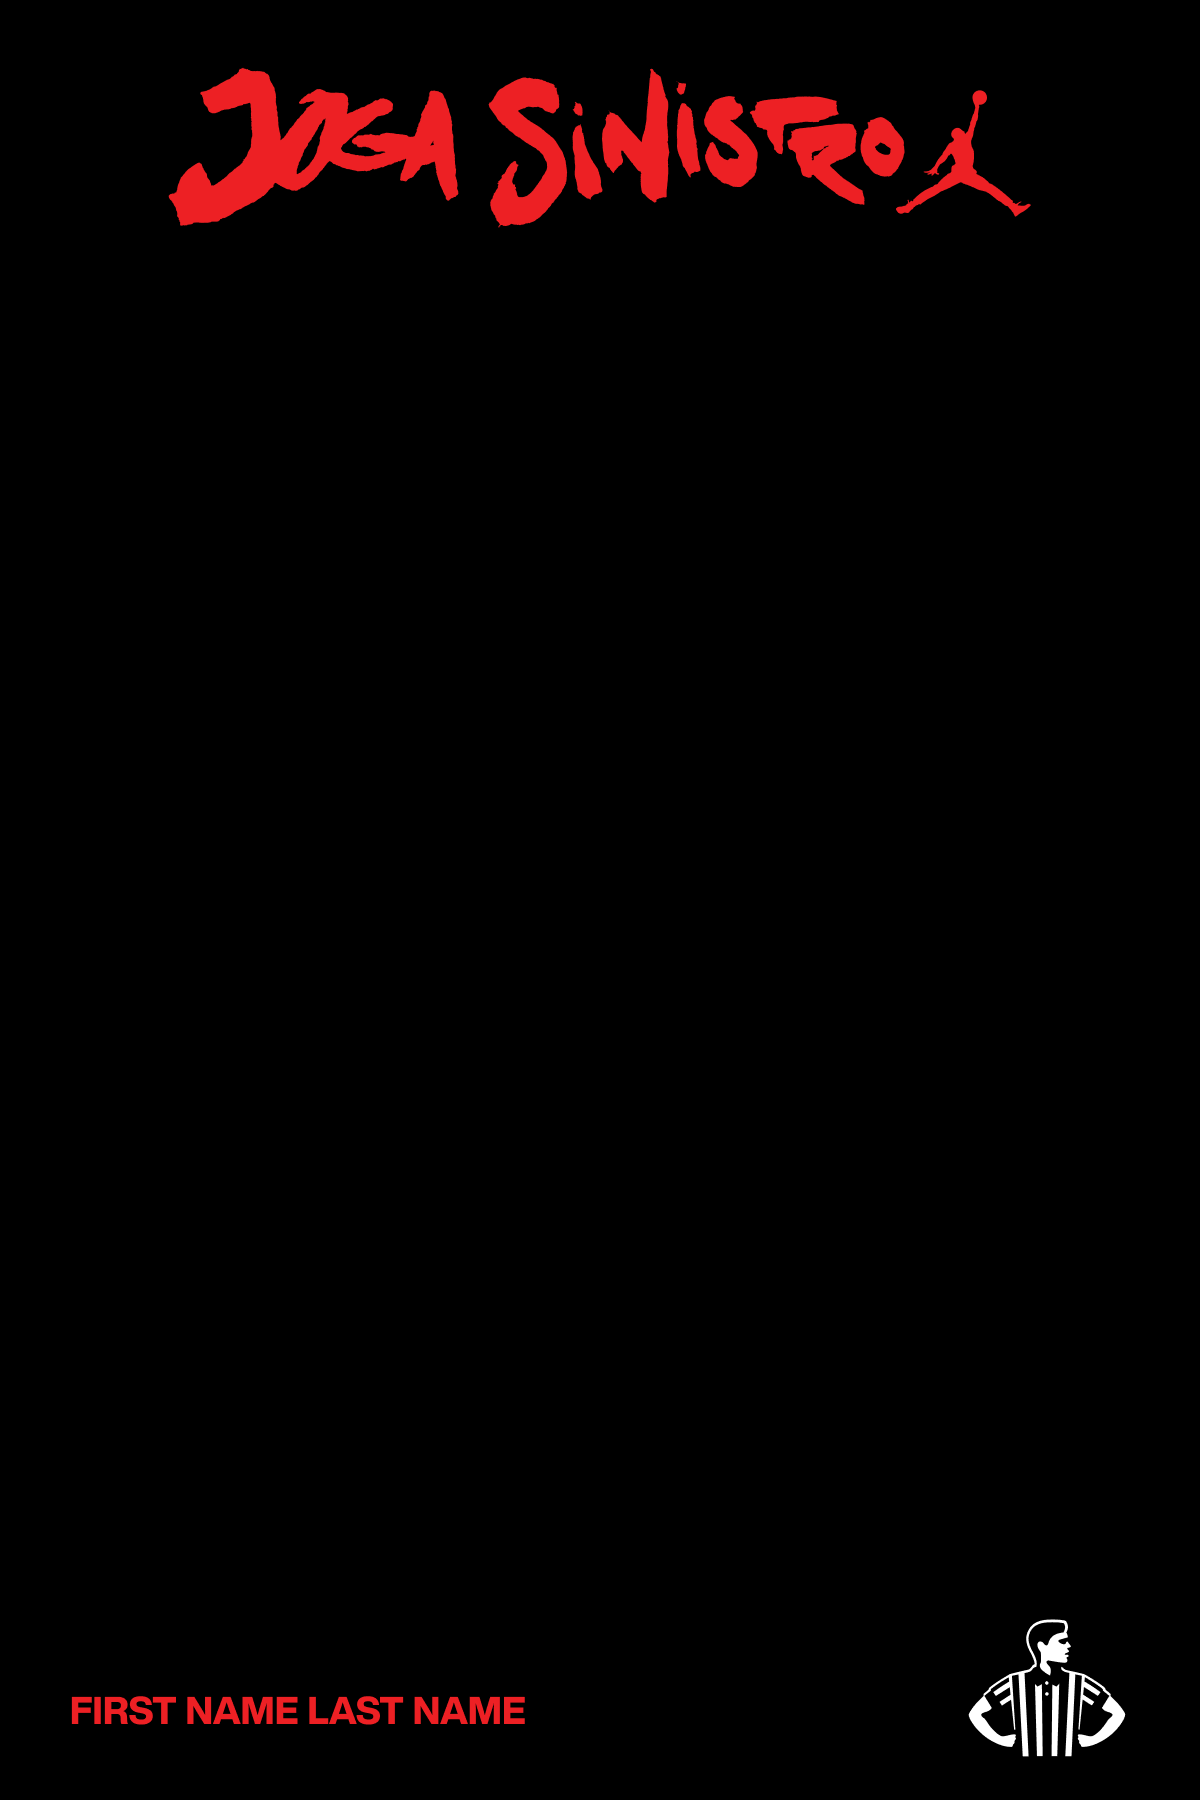
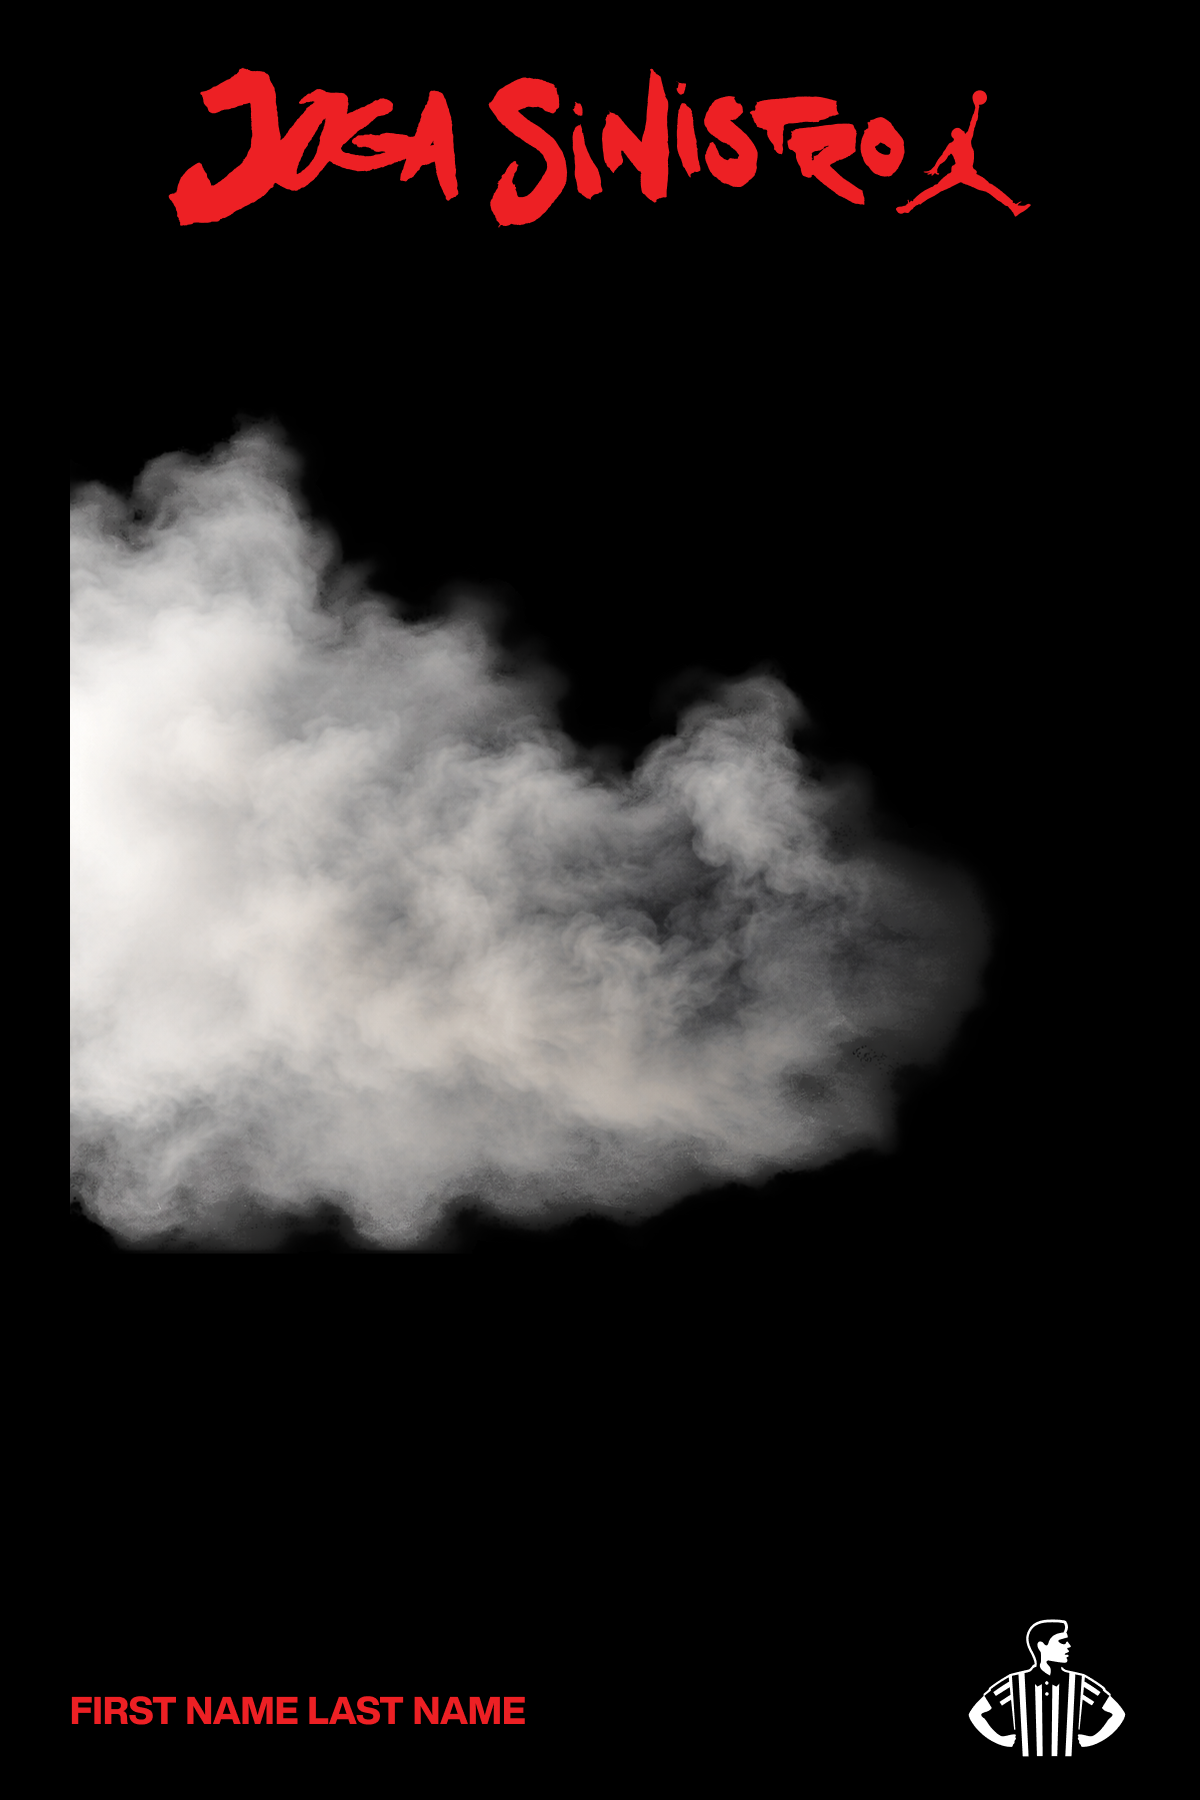
sdfsdfsfsfdf

Changed region(s): [[0.0308, 0.2178, 0.8325, 0.7156]]

diff --git a/src/components/TryOnResult.tsx b/src/components/TryOnResult.tsx
@@ -1,4 +1,5 @@
 import React, { useCallback, useEffect, useState } from 'react';
+import { Settings } from 'lucide-react';
 import { uploadSharedResultImage } from '../services/supabase';
 
 interface TryOnResultProps {
@@ -6,6 +7,7 @@ interface TryOnResultProps {
   selectedClothing: string;
   resultImage: string;
   isLoading: boolean;
+  userName: string;
   onStartOver: () => void;
   onShowQr: (value: string) => void;
 }
@@ -18,6 +20,55 @@ const loadImage = (src: string): Promise<HTMLImageElement> =>
     image.onerror = reject;
     image.src = src;
   });
+
+const waitForNextPaint = () =>
+  new Promise<void>(resolve => {
+    requestAnimationFrame(() => {
+      requestAnimationFrame(() => resolve());
+    });
+  });
+
+const waitForPrintDialog = () =>
+  new Promise<void>(resolve => {
+    let settled = false;
+
+    const finish = () => {
+      if (settled) return;
+      settled = true;
+      window.removeEventListener('afterprint', finish);
+      resolve();
+    };
+
+    window.addEventListener('afterprint', finish);
+    window.print();
+    window.setTimeout(finish, 1000);
+  });
+
+const loadPosterFont = async () => {
+  if (!document.fonts) return;
+
+  await document.fonts.load('800 34px "Helvetica Now Display"');
+};
+
+const drawUserName = (context: CanvasRenderingContext2D, canvasWidth: number, canvasHeight: number, userName: string) => {
+  const displayName = userName.trim();
+  if (!displayName) return;
+
+  const maxWidth = canvasWidth * 0.62;
+  let fontSize = 34;
+
+  context.fillStyle = '#ED2024';
+  context.textAlign = 'left';
+  context.textBaseline = 'alphabetic';
+
+  do {
+    context.font = `800 ${fontSize}px "Helvetica Now Display", Arial, sans-serif`;
+    if (context.measureText(displayName).width <= maxWidth || fontSize <= 20) break;
+    fontSize -= 2;
+  } while (fontSize > 20);
+
+  context.fillText(displayName, canvasWidth * 0.05, canvasHeight * 0.955);
+};
 
 const hasVisiblePixels = (pixels: Uint8ClampedArray) => {
   let visiblePixels = 0;
@@ -240,14 +291,18 @@ export const TryOnResult: React.FC<TryOnResultProps> = ({
   selectedClothing,
   resultImage,
   isLoading,
+  userName,
   onShowQr
 }) => {
   const [processedResultImage, setProcessedResultImage] = useState('');
   const [framedResultImage, setFramedResultImage] = useState('');
   const [isPreparingQr, setIsPreparingQr] = useState(false);
+  const [printMode, setPrintMode] = useState<'front' | 'back'>('front');
 
   const createFramedResultImage = useCallback(async () => {
-    const frame = await loadImage('/frame002.png');
+    await loadPosterFont();
+
+    const frame = await loadImage('/frameog.png');
     const result = await loadImage(processedResultImage || resultImage);
     const canvas = document.createElement('canvas');
     canvas.width = frame.naturalWidth;
@@ -276,7 +331,7 @@ export const TryOnResult: React.FC<TryOnResultProps> = ({
     const targetWidth = Math.min(933, canvas.width);
     const targetHeight = Math.min(1065, canvas.height);
     const targetLeft = (canvas.width - targetWidth) / 2;
-    const targetTop = canvas.height * 0.18 + (canvas.height * 0.7 - targetHeight) / 2 - canvas.height * 0.055;
+    const targetTop = canvas.height * 0.18 + (canvas.height * 0.7 - targetHeight) / 2 - canvas.height * 0.08;
     const imageRatio = sourceWidth / sourceHeight;
     const targetRatio = targetWidth / targetHeight;
 
@@ -293,9 +348,10 @@ export const TryOnResult: React.FC<TryOnResultProps> = ({
       drawLeft = targetLeft + (targetWidth - drawWidth) / 2;
     }
 
-    context.drawImage(frame, 0, 0, canvas.width, canvas.height);
     context.fillStyle = '#020205';
     context.fillRect(0, canvas.height * 0.165, canvas.width, canvas.height * 0.745);
+    context.drawImage(frame, 0, 0, canvas.width, canvas.height);
+
     context.drawImage(
       result,
       sourceX,
@@ -307,23 +363,40 @@ export const TryOnResult: React.FC<TryOnResultProps> = ({
       drawWidth,
       drawHeight
     );
+    drawUserName(context, canvas.width, canvas.height, userName);
 
     return canvas.toDataURL('image/png');
-  }, [processedResultImage, resultImage]);
+  }, [processedResultImage, resultImage, userName]);
+
+  const printSelectedSide = useCallback(async (mode: 'front' | 'back') => {
+    setPrintMode(mode);
+    await waitForNextPaint();
+    await waitForPrintDialog();
+    setPrintMode('front');
+  }, []);
 
   const handlePrint = async () => {
-    if (!resultImage || !processedResultImage || isPreparingQr) return;
+    if (!resultImage || !processedResultImage || !framedResultImage || isPreparingQr) return;
 
-    window.print();
+    await printSelectedSide('front');
+  };
+
+  const handlePrintBackAndContinue = async () => {
+    if (!resultImage || !processedResultImage || !framedResultImage || isPreparingQr) return;
+
+    let sharedResultUrl = framedResultImage;
     setIsPreparingQr(true);
 
     try {
-      const framedResultImage = await createFramedResultImage();
-      const sharedResultUrl = await uploadSharedResultImage(framedResultImage);
-      onShowQr(sharedResultUrl);
+      sharedResultUrl = await uploadSharedResultImage(framedResultImage);
     } catch (error) {
       console.error('Failed to create shared result image:', error);
-      onShowQr(processedResultImage || resultImage);
+      sharedResultUrl = processedResultImage || resultImage;
+    }
+
+    try {
+      await printSelectedSide('back');
+      onShowQr(sharedResultUrl);
     } finally {
       setIsPreparingQr(false);
     }
@@ -435,10 +508,19 @@ export const TryOnResult: React.FC<TryOnResultProps> = ({
   return (
     <div className="min-h-screen bg-black flex items-center justify-center overflow-hidden">
       <main className="relative h-screen max-h-[calc(100vw*16/9)] w-screen max-w-[calc(100vh*9/16)] bg-[url('/bg6.png')] bg-cover bg-center">
-        <div className="print-target absolute left-1/2 top-[6.5%] z-10 aspect-[750/1200] h-[80%] -translate-x-1/2">
+        <div className={`${printMode === 'front' ? 'print-target ' : ''}absolute left-1/2 top-[6.5%] z-10 aspect-[750/1200] h-[80%] -translate-x-1/2`}>
           <img
-            src={framedResultImage || '/frame002.png'}
+            src={framedResultImage || '/frameog.png'}
             alt="Try-on result"
+            className="block h-full w-full object-contain"
+            draggable={false}
+          />
+        </div>
+
+        <div className={`${printMode === 'back' ? 'print-target ' : ''}hidden`}>
+          <img
+            src="/Back.png"
+            alt="Back print"
             className="block h-full w-full object-contain"
             draggable={false}
           />
@@ -461,6 +543,17 @@ export const TryOnResult: React.FC<TryOnResultProps> = ({
             className="block h-full w-full"
             draggable={false}
           />
+        </button>
+
+        <button
+          type="button"
+          onClick={handlePrintBackAndContinue}
+          disabled={!resultImage || !processedResultImage || !framedResultImage || isPreparingQr}
+          className="no-print absolute right-[6%] top-[89.389%] z-30 flex h-[6.771%] aspect-square items-center justify-center rounded-full bg-white text-black shadow-xl transition-transform duration-300 hover:scale-105 focus:outline-none focus-visible:ring-4 focus-visible:ring-white/80 disabled:cursor-not-allowed disabled:opacity-70 disabled:hover:scale-100"
+          aria-label="Print back and continue"
+          title="Print back and continue"
+        >
+          <Settings className="h-[48%] w-[48%]" strokeWidth={2.5} aria-hidden="true" />
         </button>
       </main>
     </div>

diff --git a/src/index.css b/src/index.css
@@ -44,15 +44,22 @@ body {
   }
 
   .print-target {
+    display: block !important;
     position: fixed !important;
     left: 50% !important;
     top: 50% !important;
-    width: min(100vw, calc(100vh * 786 / 1248)) !important;
-    height: min(100vh, calc(100vw * 1248 / 786)) !important;
+    width: min(100vw, calc(100vh * 1200 / 1800)) !important;
+    height: min(100vh, calc(100vw * 1800 / 1200)) !important;
     margin: 0 !important;
     transform: translate(-50%, -50%) !important;
     -webkit-print-color-adjust: exact;
     print-color-adjust: exact;
+  }
+
+  .print-target img {
+    width: 100% !important;
+    height: 100% !important;
+    object-fit: contain !important;
   }
 
   .no-print {

diff --git a/src/App.tsx b/src/App.tsx
@@ -193,6 +193,7 @@ function App() {
           selectedClothing={appState.selectedClothing?.imageUrl || ''}
           resultImage={appState.resultImage || ''}
           isLoading={appState.isLoading}
+          userName={appState.userName}
           onStartOver={handleStartOver}
           onShowQr={handleShowQr}
         />
